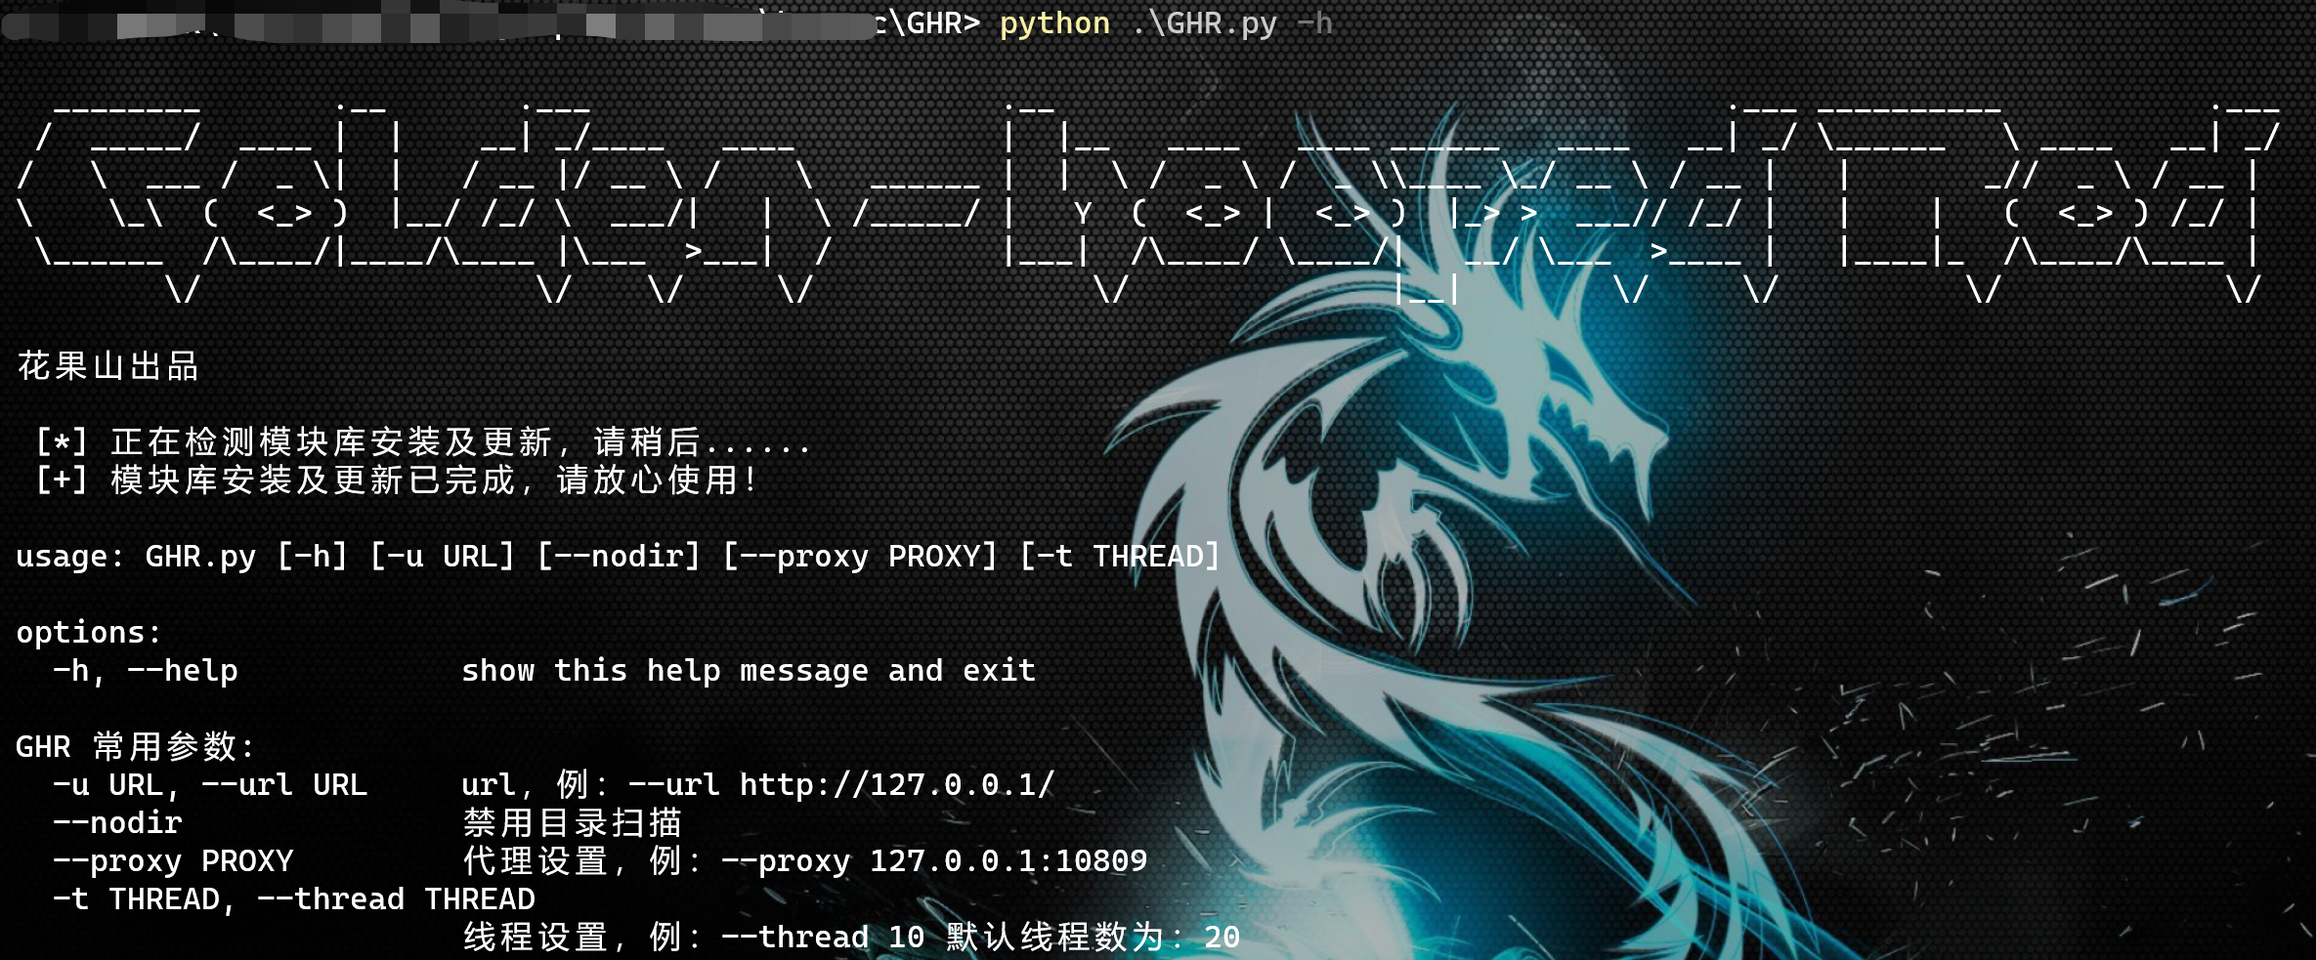
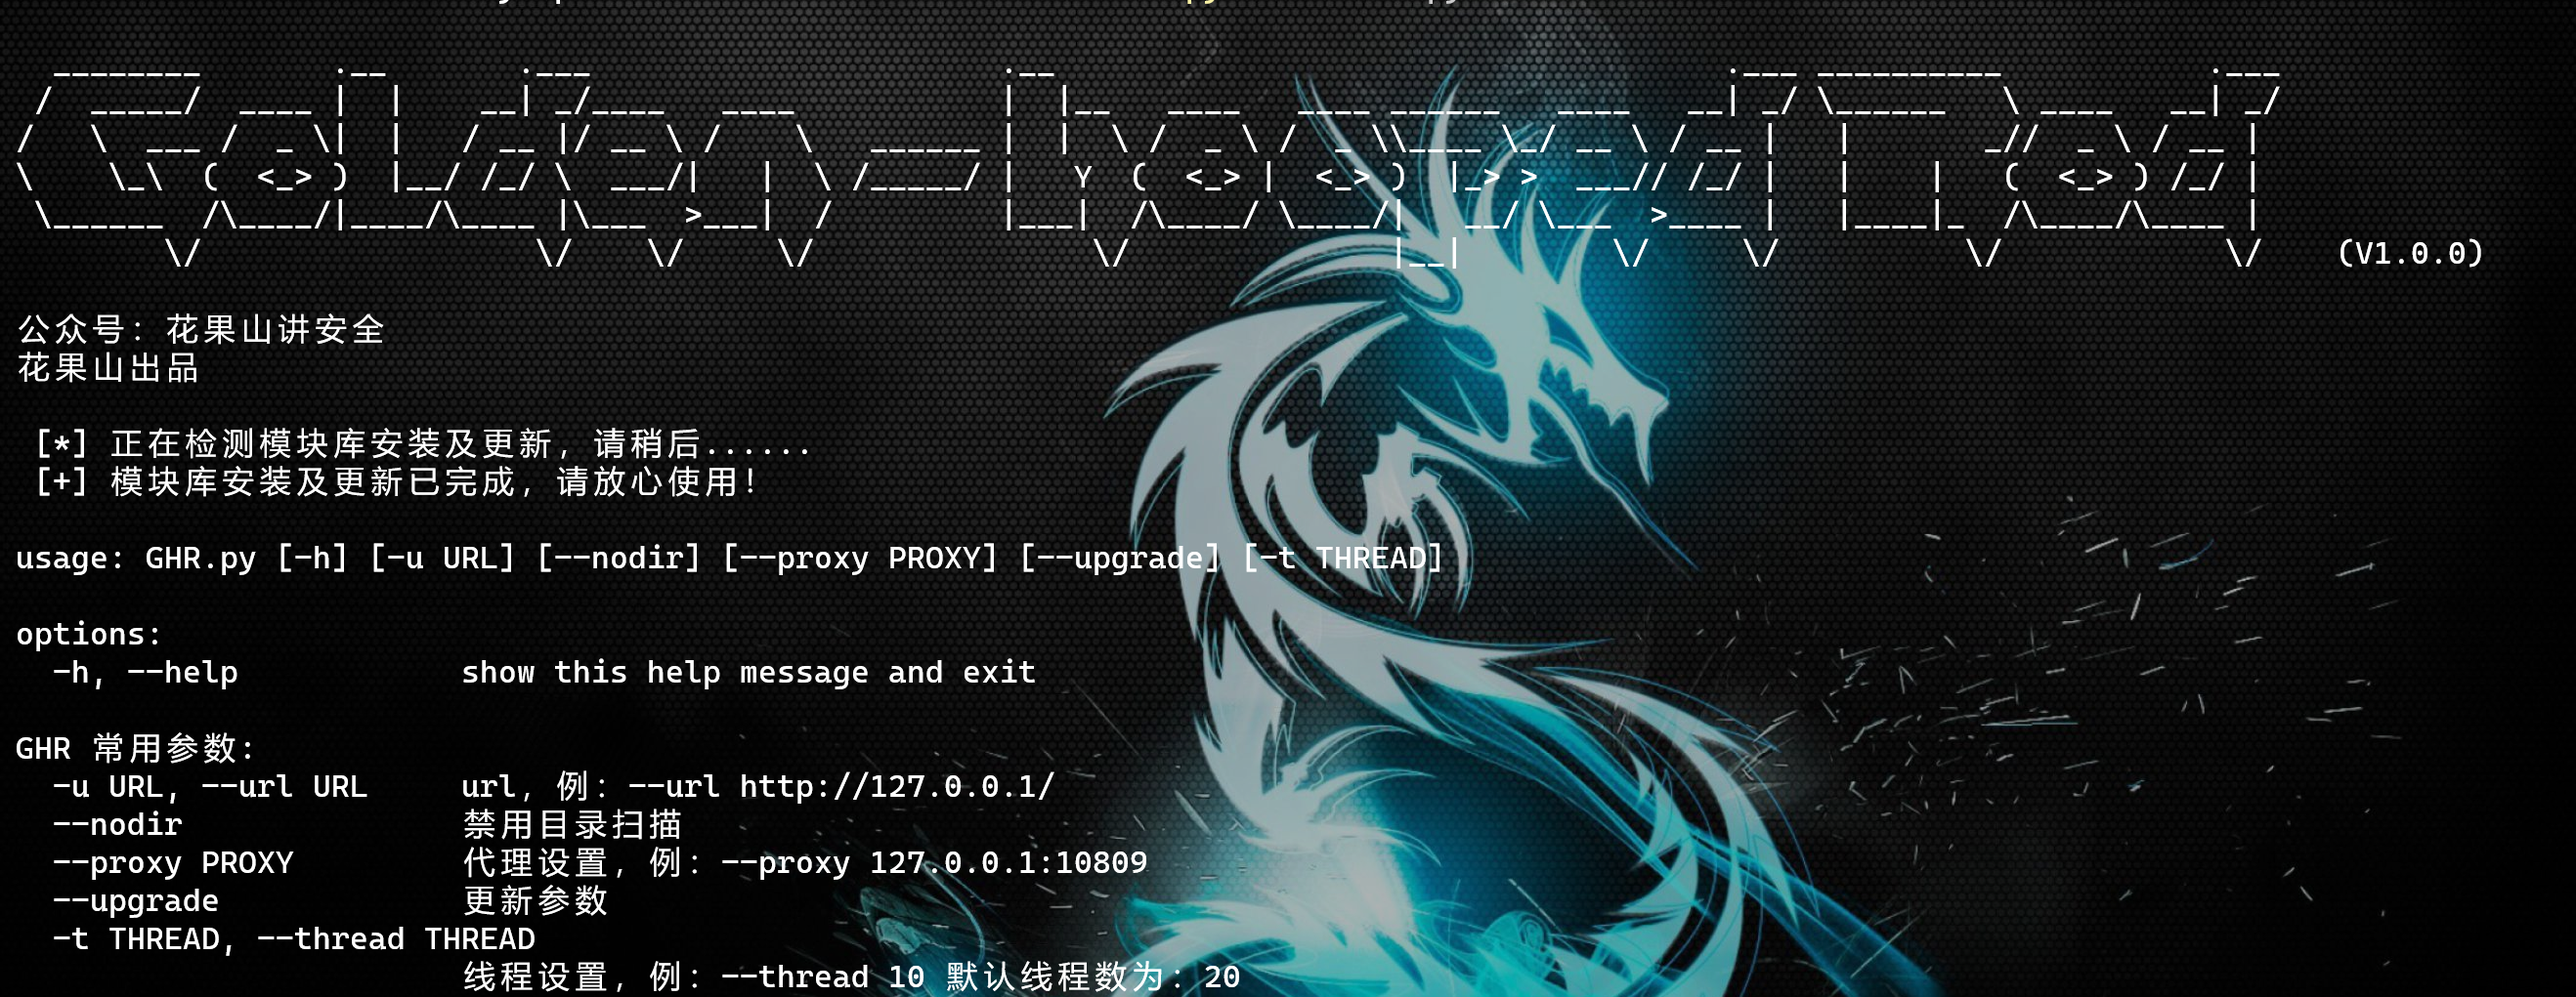
Add files via upload

diff --git a/lib/upgrade.py b/lib/upgrade.py
@@ -1,0 +1,36 @@
+'''
+Function:
+    自动更新模块
+Author:
+    花果山
+Wechat official account：
+    中龙 红客突击队
+Official website：
+    https://www.hscsec.cn/
+Email：
+    spmonkey@hscsec.cn
+Blog:
+    https://spmonkey.github.io/
+GitHub:
+    https://github.com/spmonkey/
+'''
+# -*- coding: utf-8 -*-
+import wget
+import zipfile
+import os
+
+
+class up:
+    def ghr_upgrade(self):
+        try:
+            url = "https://mirror.ghproxy.com/https://github.com/spmonkey/GHR/archive/refs/heads/main.zip"
+            filename = wget.download(url, "../GHR.zip")
+            with zipfile.ZipFile(filename, 'r') as zip_ref:
+                zip_ref.extractall("../")
+
+            os.remove(filename)
+            return True
+        except:
+            print("\n [-] 更新失败，但是不影响使用，如果需要更新，请重新运行：python GHR.py --upgrade\n")
+            return False
+

diff --git a/lib/logo.py b/lib/logo.py
@@ -24,7 +24,9 @@ def logo():
 /   \  ___ /  _ \|  |   / __ |/ __ \ /    \   ______ |  |  \ /  _ \ /  _ \\\\____ \_/ __ \ / __ |   |       _//  _ \ / __ | 
 \    \_\  (  <_> )  |__/ /_/ \  ___/|   |  \ /_____/ |   Y  (  <_> |  <_> )  |_> >  ___// /_/ |   |    |   (  <_> ) /_/ | 
  \______  /\____/|____/\____ |\___  >___|  /         |___|  /\____/ \____/|   __/ \___  >____ |   |____|_  /\____/\____ | 
-        \/                  \/    \/     \/               \/              |__|        \/     \/          \/            \/ 
+        \/                  \/    \/     \/               \/              |__|        \/     \/          \/            \/    (V1.0.0)
+
+公众号：花果山讲安全
 
 花果山出品
 """

diff --git a/README.md b/README.md
@@ -13,13 +13,14 @@ options:
 GHR 常用参数:
   -u URL, --url URL     url，例：--url http://127.0.0.1/
   --nodir               禁用目录扫描
+  --upgrade             更新
   --proxy PROXY         代理设置，例：--proxy 127.0.0.1:10809（目前仅支持HTTP，暂不支持SOCKET）
   -t THREAD, --thread THREAD
                         线程设置，例：--thread 10 默认线程数为：20
 
 ```
 
-![help](picure/help.png)
+![running](picture/help.png)
 
 ## 运行截图
 
